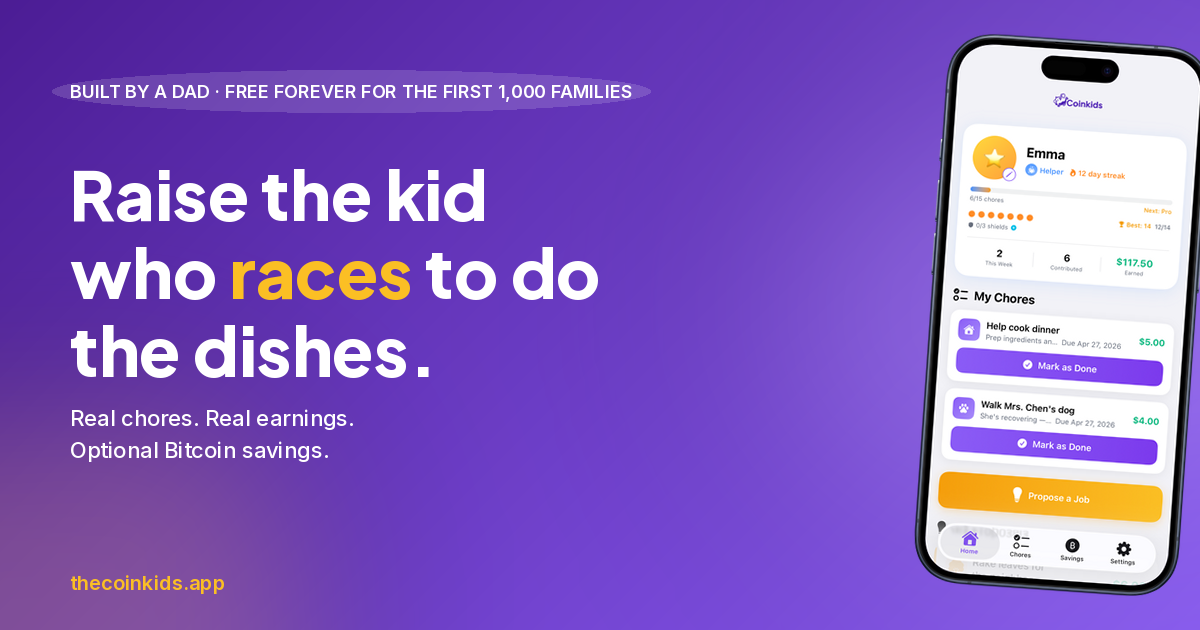
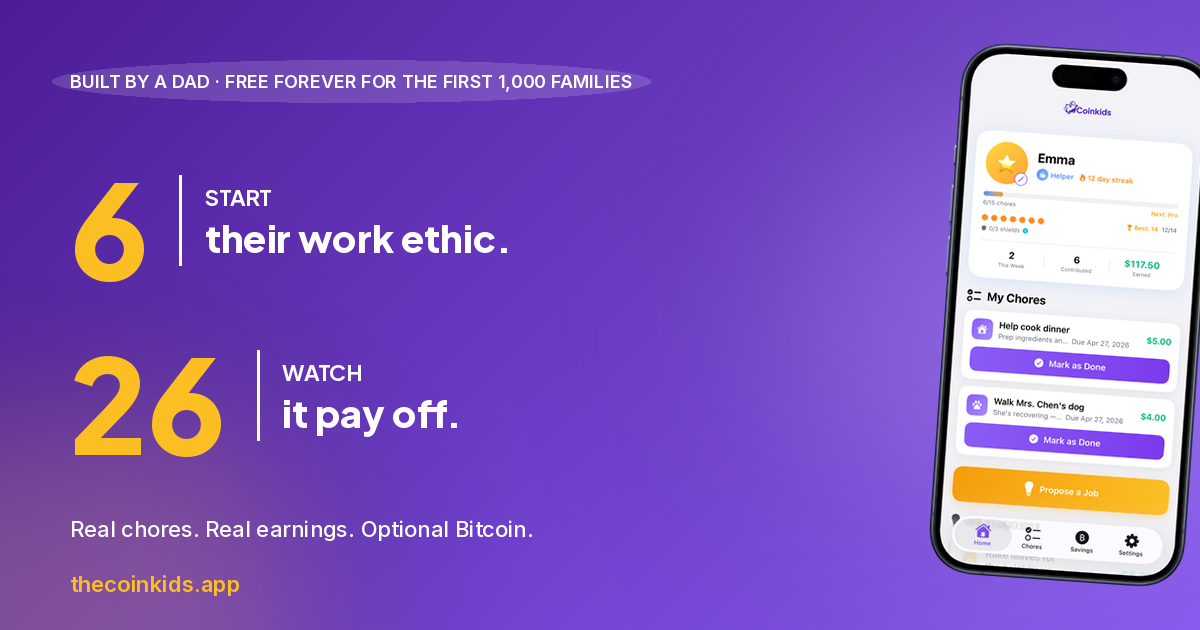
Sync OG share card + meta to new 'Start at 6 / Pay off at 26' framing
Site's final CTA shifted from 'Raise the kid who races to do the
dishes' to 'Start their work ethic at 6. Watch it pay off at 26.'
but the OG card and meta titles still showed the old line.

- Regenerated assets/og-image.png with a bolder layout: huge amber
  italic '6' and '26' as visual anchors, with small 'START / WATCH'
  labels and descriptions next to each. More striking than the
  previous text-heavy version, and ties directly to the website's
  closing CTA so the share card and the page tell the same story.
- Updated og:title, twitter:title, image alt text, and the page
  meta description to use the new headline.

diff --git a/index.html b/index.html
@@ -4,7 +4,7 @@
   <meta charset="utf-8" />
   <meta name="viewport" content="width=device-width, initial-scale=1" />
   <title>Coinkids — Chores, Earnings & Bitcoin</title>
-  <meta name="description" content="Raise the kid who races to do the dishes. Real chores, real earnings, and optional Bitcoin savings. Built by a dad. Free forever for the first 1,000 families." />
+  <meta name="description" content="Start their work ethic at 6. Watch it pay off at 26. Real chores, real earnings, and optional Bitcoin savings. Built by a dad. Free forever for the first 1,000 families." />
   <link rel="icon" type="image/png" href="assets/app-icon.png" />
   <link rel="apple-touch-icon" href="assets/app-icon.png" />
   <link rel="canonical" href="https://thecoinkids.app/" />
@@ -13,20 +13,20 @@
   <meta property="og:type" content="website" />
   <meta property="og:site_name" content="Coinkids" />
   <meta property="og:url" content="https://thecoinkids.app/" />
-  <meta property="og:title" content="Raise the kid who races to do the dishes." />
+  <meta property="og:title" content="Start their work ethic at 6. Watch it pay off at 26." />
   <meta property="og:description" content="Real chores. Real earnings. Optional Bitcoin savings. Built by a dad. Free forever for the first 1,000 families." />
   <meta property="og:image" content="https://thecoinkids.app/assets/og-image.png" />
   <meta property="og:image:width" content="1200" />
   <meta property="og:image:height" content="630" />
-  <meta property="og:image:alt" content="Coinkids — Raise the kid who races to do the dishes." />
+  <meta property="og:image:alt" content="Coinkids — Start their work ethic at 6. Watch it pay off at 26." />
   <meta property="og:locale" content="en_US" />
 
   <!-- Twitter / X -->
   <meta name="twitter:card" content="summary_large_image" />
-  <meta name="twitter:title" content="Raise the kid who races to do the dishes." />
+  <meta name="twitter:title" content="Start their work ethic at 6. Watch it pay off at 26." />
   <meta name="twitter:description" content="Real chores. Real earnings. Optional Bitcoin savings. Built by a dad. Free forever for the first 1,000 families." />
   <meta name="twitter:image" content="https://thecoinkids.app/assets/og-image.png" />
-  <meta name="twitter:image:alt" content="Coinkids — Raise the kid who races to do the dishes." />
+  <meta name="twitter:image:alt" content="Coinkids — Start their work ethic at 6. Watch it pay off at 26." />
 
   <meta name="theme-color" content="#6D28D9" />
   <script src="https://cdn.tailwindcss.com"></script>
